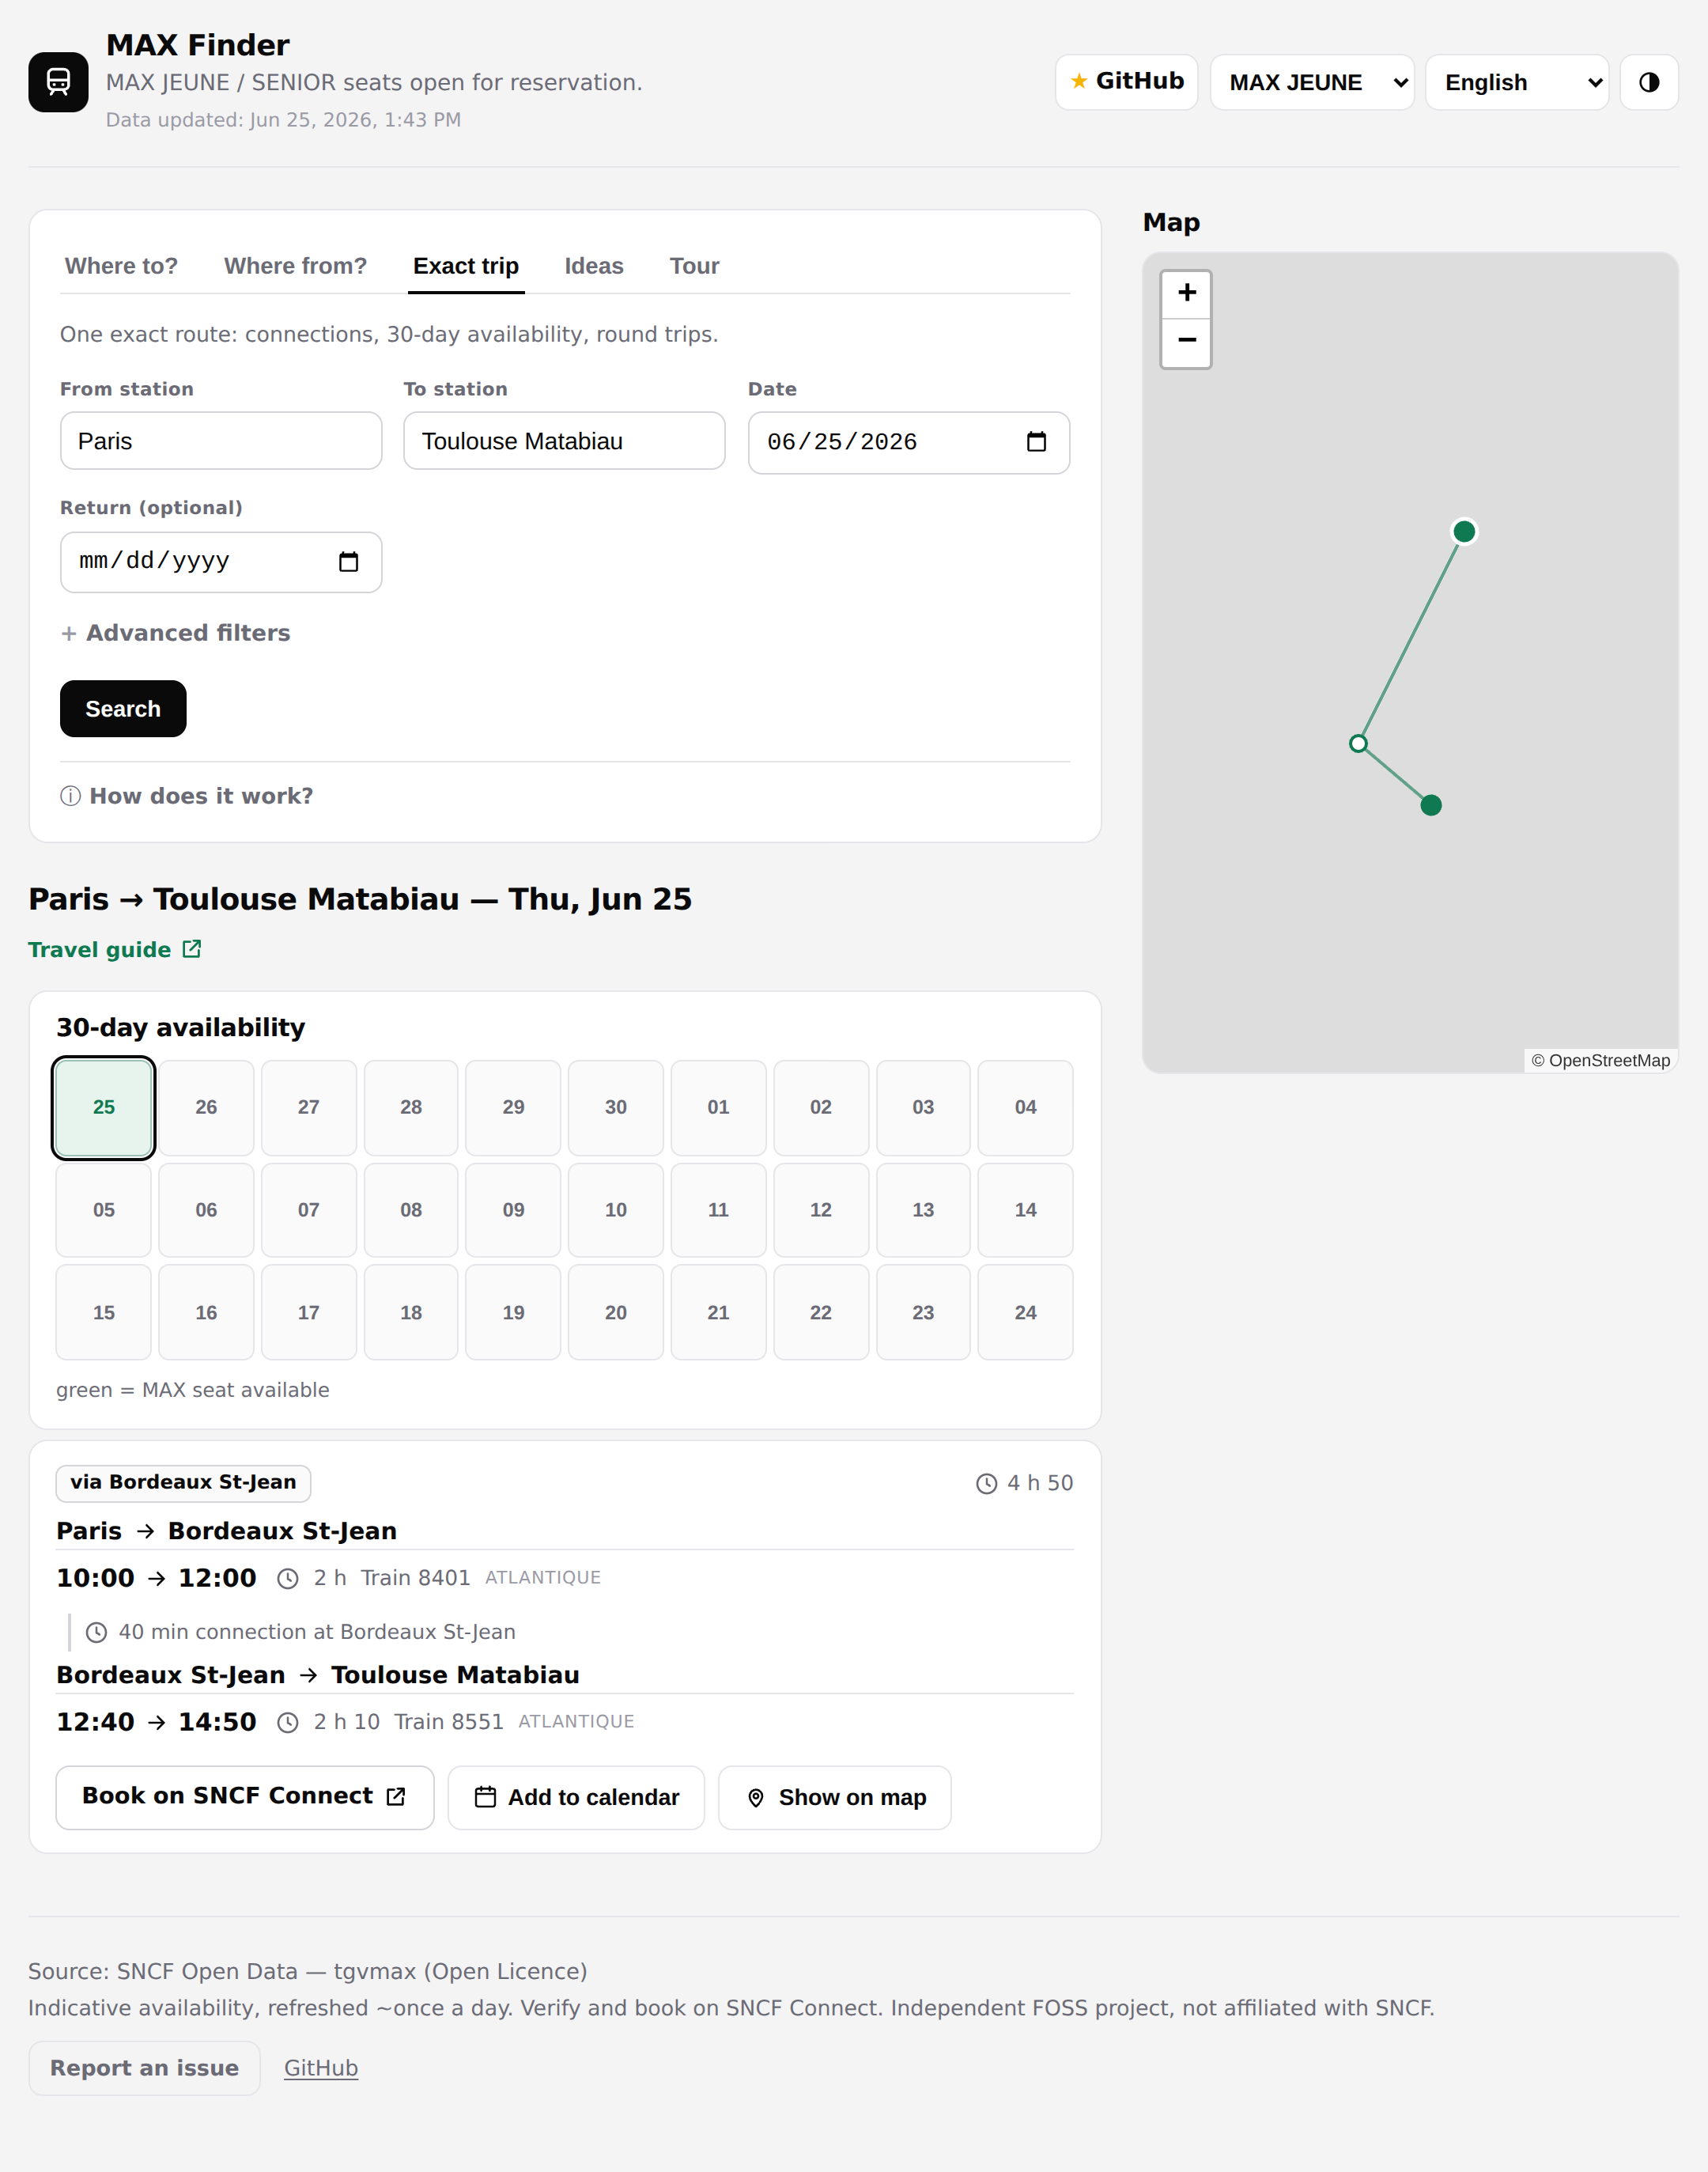
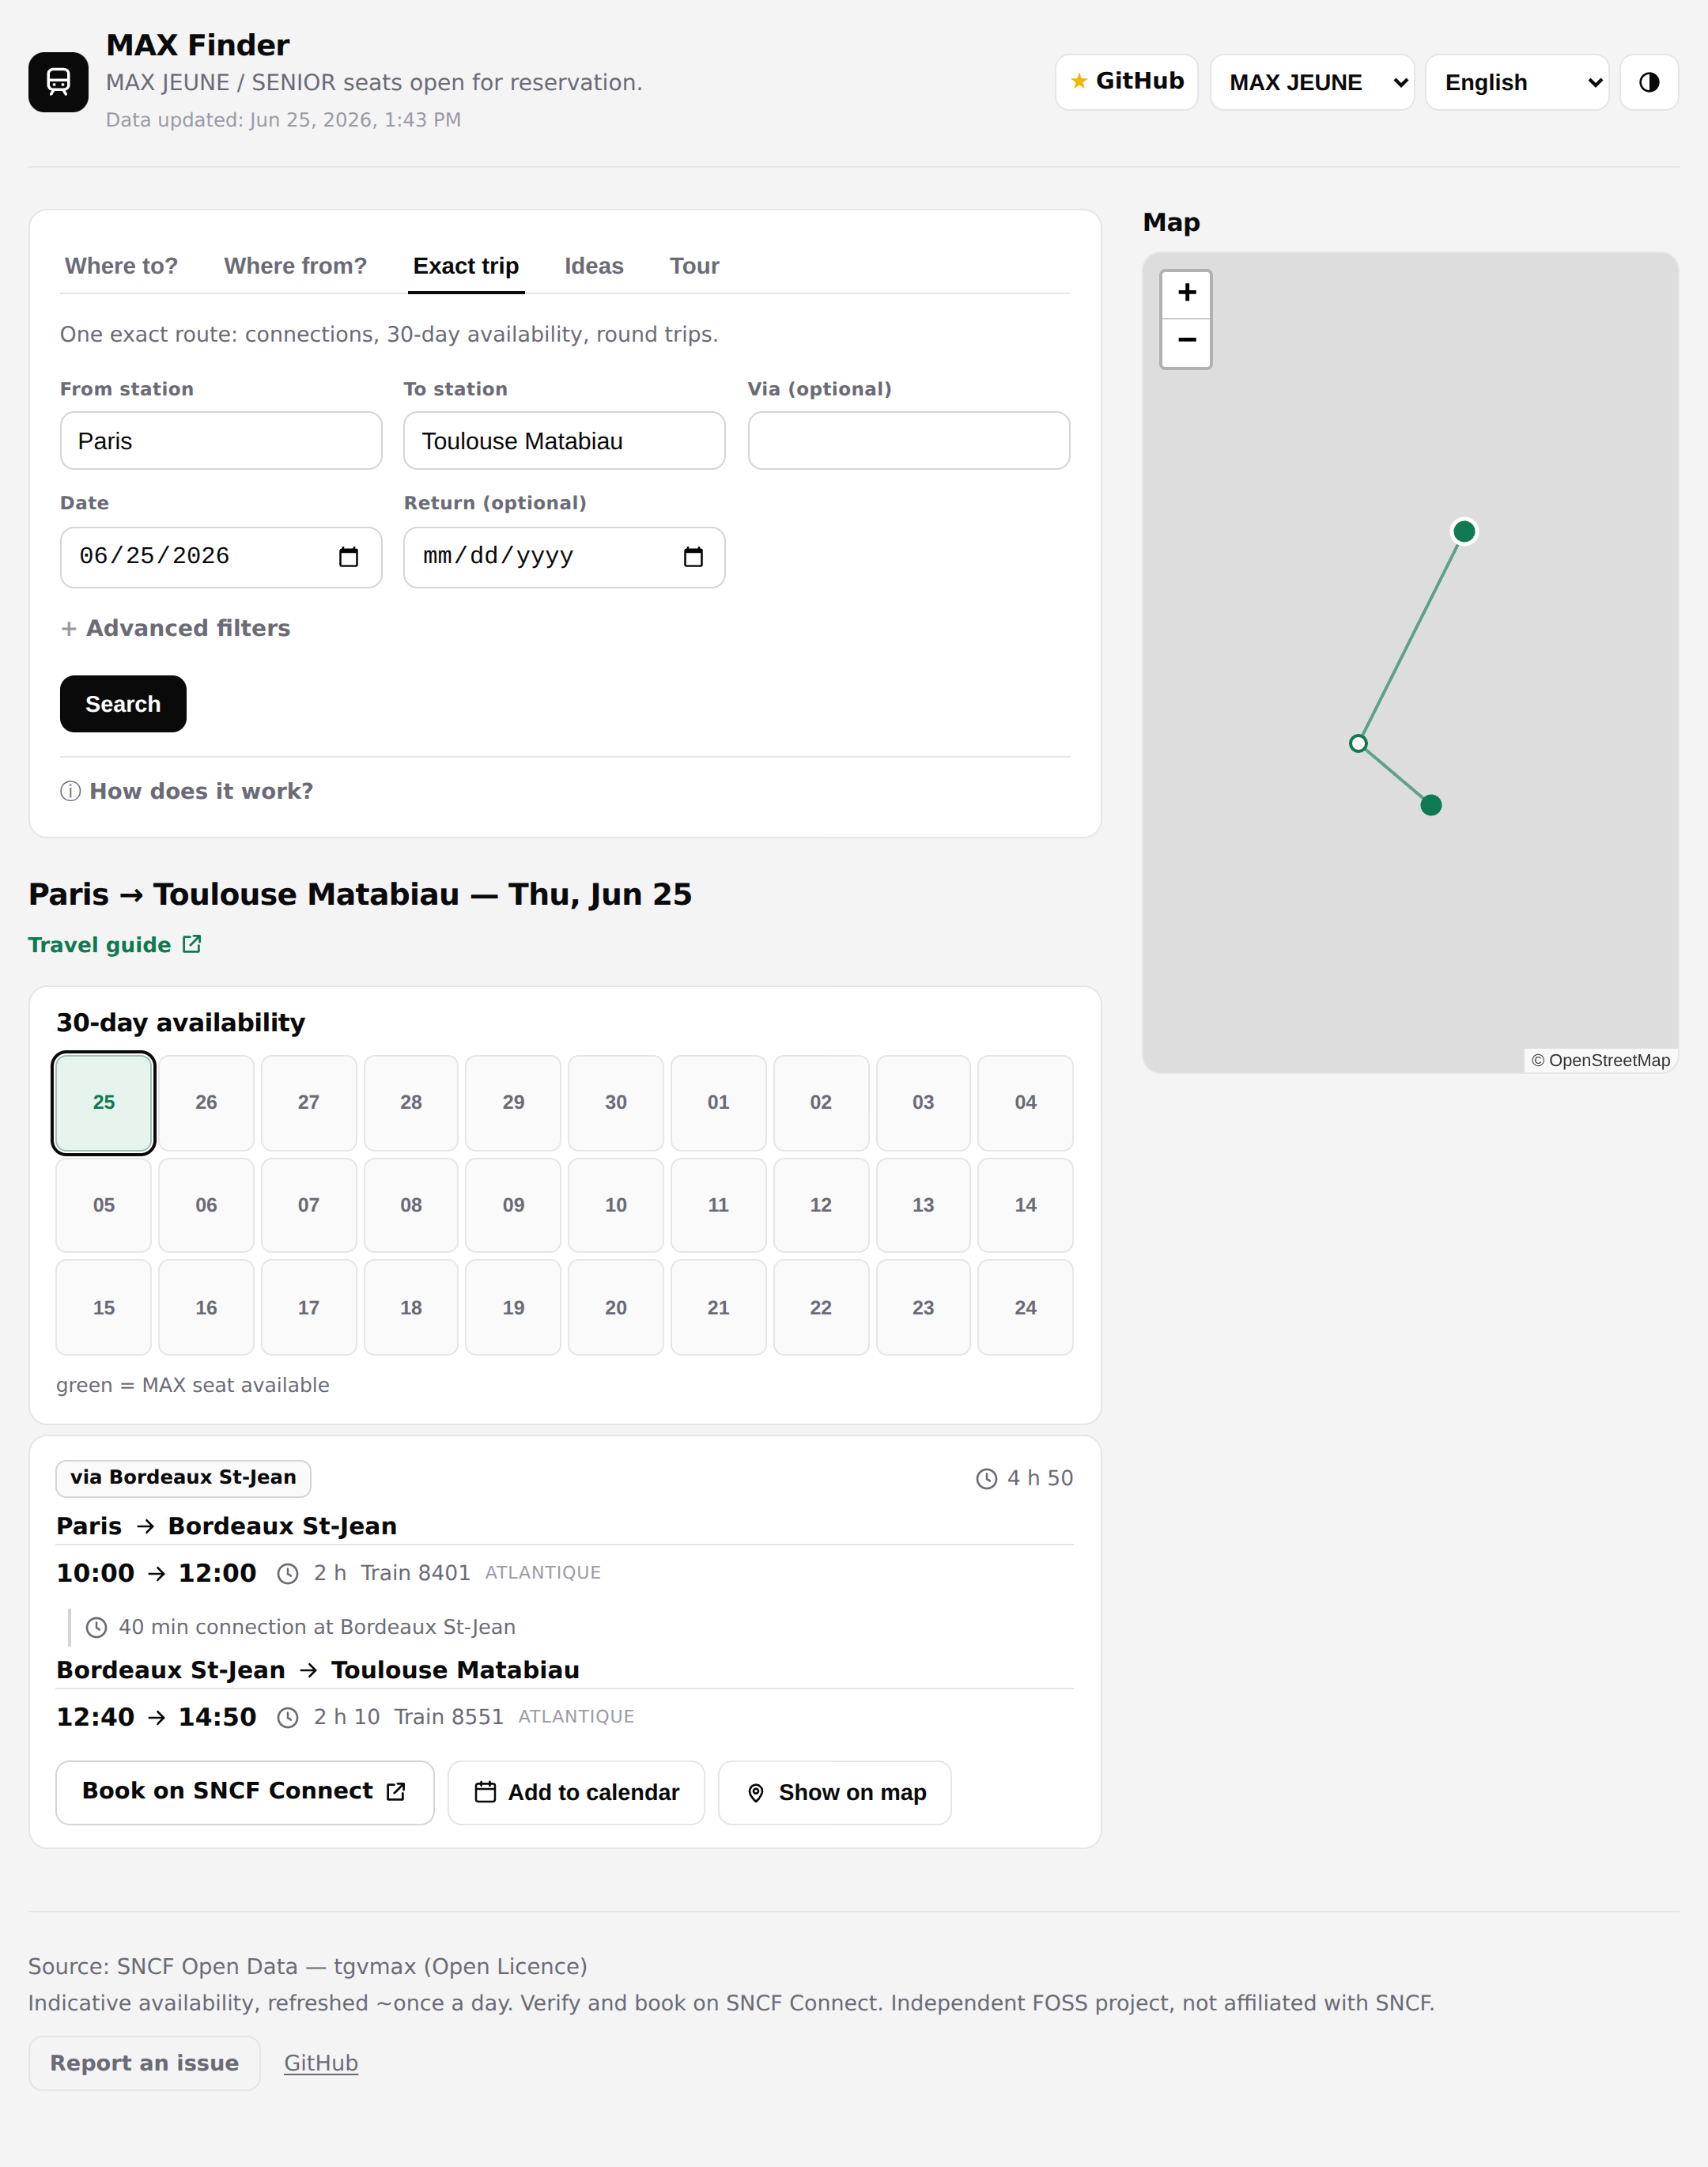
feat: "via" stopover field for exact-trip search
Add an optional "Via" station to exact-trip mode: the chosen station joins the
allowed interchange set, the search requires at least one change, and only
journeys passing through it are kept (the map then draws origin → via →
destination). Persisted in the URL (?via=) and localized across all 11 languages.

Claude-Session: https://claude.ai/code/session_01GjYKzVUaZR1Awer3K9BTXW

diff --git a/src/app.ts b/src/app.ts
@@ -21,6 +21,7 @@ import {
   GITHUB_URL,
   GITHUB_ISSUES_URL,
   OVERNIGHT_MAX_CONNECTION_MIN,
+  HUB_STATIONS,
 } from "./config";
 import { notify } from "./pwa/register";
 
@@ -44,8 +45,10 @@ interface Refs {
   trainType: HTMLSelectElement;
   maxConnections: HTMLSelectElement;
   overnight: HTMLInputElement;
+  via: HTMLInputElement;
   originField: HTMLElement;
   destinationField: HTMLElement;
+  viaField: HTMLElement;
   returnField: HTMLElement;
   region: HTMLSelectElement;
   regionField: HTMLElement;
@@ -210,6 +213,7 @@ function syncFormFromQuery(): void {
   refs.modeDesc.textContent = t(`desc_${query.mode}` as const);
   refs.origin.value = query.origin ? deps.registry.label(query.origin) : "";
   refs.destination.value = query.destination ? deps.registry.label(query.destination) : "";
+  refs.via.value = query.via ? deps.registry.label(query.via) : "";
   refs.date.value = query.date;
   refs.card.value = query.card;
   refs.departAfter.value = query.departAfter ?? "";
@@ -229,6 +233,7 @@ function readQueryFromForm(): SearchQuery {
     mode: query.mode,
     origin: resolveStation(refs.origin.value),
     destination: resolveStation(refs.destination.value),
+    via: resolveStation(refs.via.value),
     date: refs.date.value || query.date,
     card: refs.card.value === "senior" ? "senior" : "jeune",
     departAfter: refs.departAfter.value || undefined,
@@ -425,6 +430,16 @@ function runOdSearch(c: RenderCtx): void {
   });
   refs.results.append(el("p", { class: "od-guide" }, [render.guideLinkEl(c, query.destination)]));
 
+  // A "via" forces the route through a chosen station: add it to the allowed
+  // interchange set, require ≥1 change, and keep only journeys passing through it.
+  const viaId = query.via;
+  const connOpts = {
+    ...filterOpts(),
+    maxConnections: viaId ? Math.max(1, query.maxConnections) : query.maxConnections,
+    ...(viaId ? { hubs: [...HUB_STATIONS, viaId] } : {}),
+  };
+  const passesVia = (j: Journey): boolean => !viaId || j.hubs.includes(viaId);
+
   // 30-day availability calendar, anchored to today's bookable window (not the
   // selected date) so clicking a day doesn't shift the strip. The chosen date is
   // highlighted in place.
@@ -433,24 +448,26 @@ function runOdSearch(c: RenderCtx): void {
     query.origin,
     query.destination,
     dateRange(today, BOOKING_WINDOW_DAYS),
-    { ...filterOpts(), maxConnections: query.maxConnections },
+    connOpts,
   );
   refs.results.append(render.calendarEl(cal, c, query.date));
 
-  const journeys: Journey[] = findJourneys(trains, query.origin, query.destination, query.date, {
-    ...filterOpts(),
-    maxConnections: query.maxConnections,
-  });
+  const journeys: Journey[] = findJourneys(
+    trains,
+    query.origin,
+    query.destination,
+    query.date,
+    connOpts,
+  ).filter(passesVia);
   if (journeys.length === 0) refs.results.append(render.emptyEl(t("res_none")));
   else for (const j of journeys) refs.results.append(render.journeyEl(j, c));
 
   // optional round trips
   const ret = refs.returnDate.value;
   if (ret) {
-    const trips = findRoundTrips(trains, query.origin, query.destination, query.date, ret, {
-      ...filterOpts(),
-      maxConnections: query.maxConnections,
-    });
+    const trips = findRoundTrips(trains, query.origin, query.destination, query.date, ret, connOpts).filter(
+      (rt) => passesVia(rt.outbound) && passesVia(rt.inbound),
+    );
     const section = el("section", { class: "roundtrips" }, [el("h3", { text: t("rt_title") })]);
     if (trips.length === 0) section.append(render.emptyEl(t("rt_none")));
     else for (const rt of trips.slice(0, 20)) section.append(render.roundTripEl(rt, c));
@@ -555,6 +572,7 @@ function updateFieldVisibility(): void {
   refs.originField.style.display = query.mode === "to" ? "none" : "";
   const needsDest = query.mode === "od" || query.mode === "to";
   refs.destinationField.style.display = needsDest ? "" : "none";
+  refs.viaField.style.display = query.mode === "od" ? "" : "none";
   refs.returnField.style.display = query.mode === "od" ? "" : "none";
   refs.regionField.style.display = query.mode === "best" ? "" : "none";
   refs.citiesField.style.display = query.mode === "tour" ? "" : "none";
@@ -743,6 +761,7 @@ function buildForm(): FormBuild {
 
   const origin = inputEl("text", "station-list");
   const destination = inputEl("text", "station-list");
+  const via = inputEl("text", "station-list");
   const date = inputEl("date");
   const returnDate = inputEl("date");
   // Constrain dates to exactly the window the 30-day calendar renders.
@@ -783,6 +802,7 @@ function buildForm(): FormBuild {
 
   const originField = field(t("field_origin"), origin);
   const destinationField = field(t("field_destination"), destination);
+  const viaField = field(t("field_via"), via);
   const returnField = field(t("field_return"), returnDate);
   const regionField = field(t("field_region"), region);
   const citiesField = field(t("field_cities"), cities);
@@ -830,6 +850,7 @@ function buildForm(): FormBuild {
     el("div", { class: "fields" }, [
       originField,
       destinationField,
+      viaField,
       field(t("field_date"), date),
       returnField,
       regionField,
@@ -862,8 +883,10 @@ function buildForm(): FormBuild {
       trainType,
       maxConnections,
       overnight,
+      via,
       originField,
       destinationField,
+      viaField,
       returnField,
       region,
       regionField,

diff --git a/src/state/store.ts b/src/state/store.ts
@@ -99,6 +99,7 @@ export function queryToParams(q: SearchQuery): URLSearchParams {
   p.set("mode", q.mode);
   if (q.origin) p.set("from", q.origin);
   if (q.destination) p.set("to", q.destination);
+  if (q.via) p.set("via", q.via);
   p.set("date", q.date);
   p.set("card", q.card);
   if (q.departAfter) p.set("after", q.departAfter);
@@ -123,6 +124,7 @@ export function queryFromParams(p: URLSearchParams, fallbackDate: string): Searc
     mode,
     origin: p.get("from") ?? undefined,
     destination: p.get("to") ?? undefined,
+    via: p.get("via") ?? undefined,
     date: p.get("date") ?? fallbackDate,
     card: p.get("card") === "senior" ? "senior" : "jeune",
     departAfter: p.get("after") ?? undefined,

diff --git a/src/types.ts b/src/types.ts
@@ -63,6 +63,8 @@ export interface SearchQuery {
   maxConnections: number;
   /** Allow long overnight layovers at a hub (evening train → sleep → morning train). */
   overnight?: boolean;
+  /** Force the journey to pass through this station ("exact trip" mode only). */
+  via?: string;
   /** Region filter, used by "best" mode. */
   region?: string;
   /** Cities to visit, used by "tour" mode. */

diff --git a/src/i18n/ar.ts b/src/i18n/ar.ts
@@ -97,4 +97,5 @@ export const ar: Dict = {
   act_back: "رجوع",
   act_map: "إظهار على الخريطة",
   field_overnight: "توقف ليلي",
+  field_via: "عبر (اختياري)",
 };

diff --git a/src/i18n/de.ts b/src/i18n/de.ts
@@ -98,4 +98,5 @@ export const de: Dict = {
   act_back: "Zurück",
   act_map: "Auf der Karte zeigen",
   field_overnight: "Umstieg über Nacht",
+  field_via: "Über (optional)",
 };

diff --git a/src/i18n/en.ts b/src/i18n/en.ts
@@ -110,4 +110,5 @@ export const en: Dict = {
   act_back: "Back",
   act_map: "Show on map",
   field_overnight: "Overnight stopovers",
+  field_via: "Via (optional)",
 };

diff --git a/src/i18n/es.ts b/src/i18n/es.ts
@@ -98,4 +98,5 @@ export const es: Dict = {
   act_back: "Volver",
   act_map: "Ver en el mapa",
   field_overnight: "Escalas nocturnas",
+  field_via: "Vía (opcional)",
 };

diff --git a/src/i18n/fr.ts b/src/i18n/fr.ts
@@ -108,6 +108,7 @@ export const fr = {
   act_back: "Retour",
   act_map: "Voir sur la carte",
   field_overnight: "Escale de nuit",
+  field_via: "Via (optionnel)",
 };
 
 export type Dict = typeof fr;

diff --git a/src/i18n/it.ts b/src/i18n/it.ts
@@ -98,4 +98,5 @@ export const it: Dict = {
   act_back: "Indietro",
   act_map: "Mostra sulla mappa",
   field_overnight: "Soste notturne",
+  field_via: "Via (opzionale)",
 };

diff --git a/src/i18n/ja.ts b/src/i18n/ja.ts
@@ -97,4 +97,5 @@ export const ja: Dict = {
   act_back: "戻る",
   act_map: "地図で表示",
   field_overnight: "夜行乗り継ぎ",
+  field_via: "経由（任意）",
 };

diff --git a/src/i18n/ko.ts b/src/i18n/ko.ts
@@ -98,4 +98,5 @@ export const ko: Dict = {
   act_back: "뒤로",
   act_map: "지도에서 보기",
   field_overnight: "야간 경유",
+  field_via: "경유 (선택)",
 };

diff --git a/src/i18n/nl.ts b/src/i18n/nl.ts
@@ -97,4 +97,5 @@ export const nl: Dict = {
   act_back: "Terug",
   act_map: "Op de kaart tonen",
   field_overnight: "Nachtoverstap",
+  field_via: "Via (optioneel)",
 };